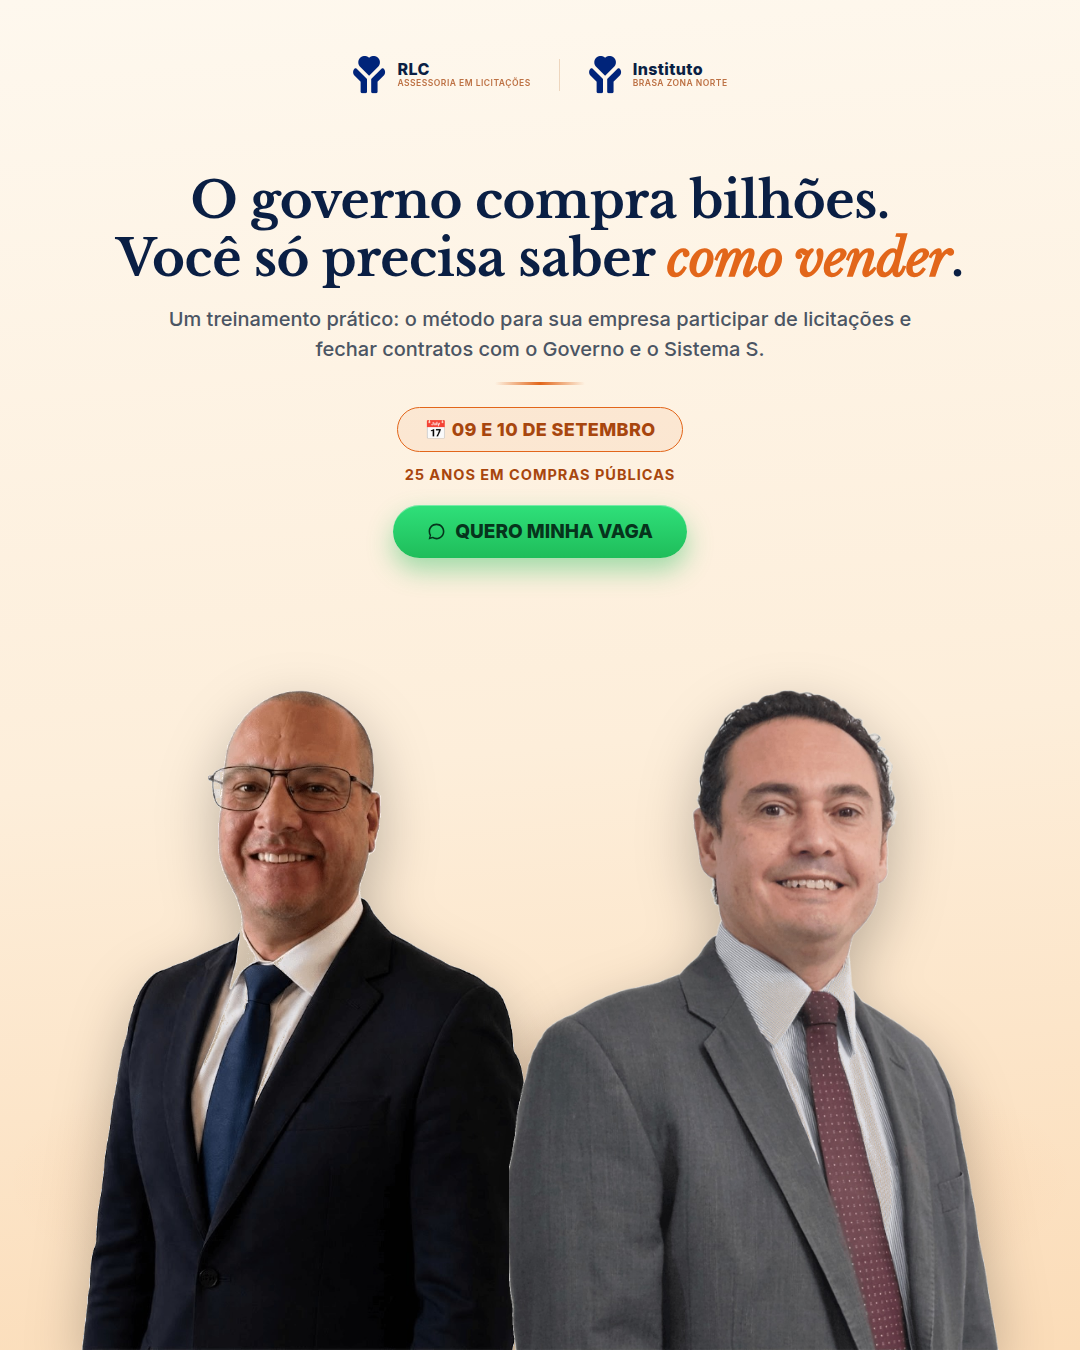
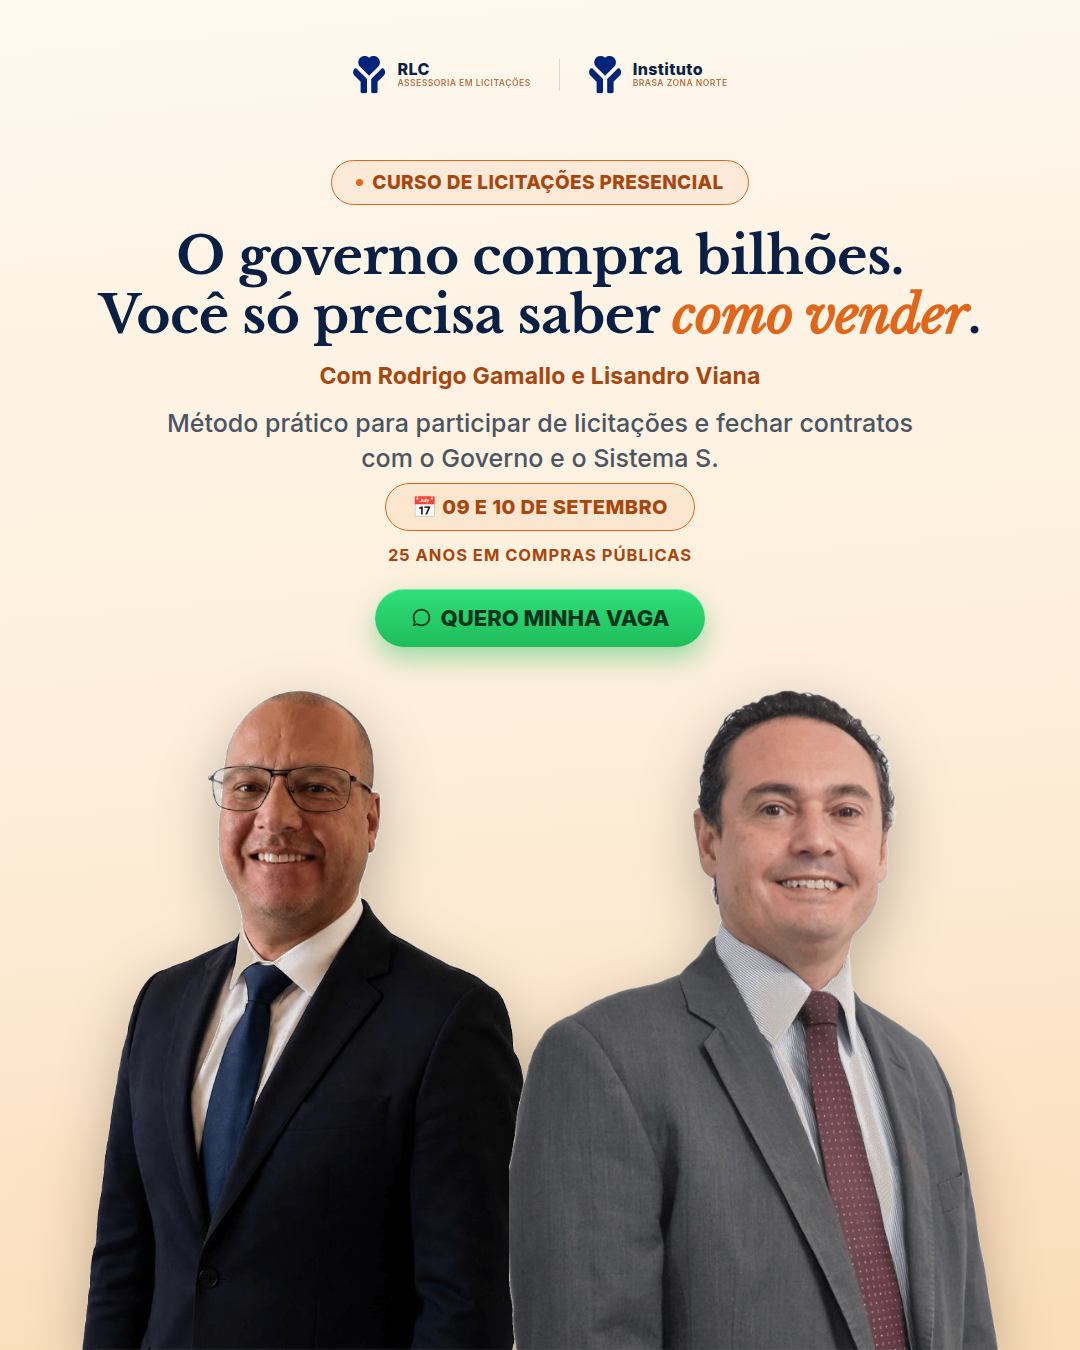
Update course name, WhatsApp number, and elevate feed ad cards
- Renames the course to "Curso de Licitações Presencial" everywhere
  it appears (title, meta tags, hero, sticky bar, event section,
  WhatsApp prefilled messages, legal pages) and regenerates the
  share-preview image to match.
- Updates the WhatsApp number to (51) 99371-3577 across every link
  and displayed number on the site.
- Rebuilds the 4 Instagram feed ad cards: each now carries a
  "CURSO DE LICITAÇÕES PRESENCIAL" badge and the instructors' names
  under the (reused) headline, with larger type throughout. Verified
  legibility by rendering at actual in-feed mobile display size
  (~470px wide) before finalizing.

Changed region(s): [[0.0917, 0.1244, 0.9167, 0.4978], [0.0917, 0.1556, 0.1222, 0.1867]]

diff --git a/index.html b/index.html
@@ -3,16 +3,16 @@
 <head>
 <meta charset="UTF-8" />
 <meta name="viewport" content="width=device-width, initial-scale=1.0" />
-<title>Como Vender para o Governo e Sistema S | Turma Presencial Reduzida — RLC Assessoria</title>
-<meta name="description" content="Imersão presencial de 6 horas para sua empresa entrar no mercado de compras públicas: prefeituras, hospitais e Sistema S. Turma reduzida. 09 e 10 de setembro, Porto Alegre/RS." />
+<title>Curso de Licitações Presencial | Turma Reduzida — RLC Assessoria</title>
+<meta name="description" content="Curso de Licitações Presencial: imersão de 6 horas para sua empresa entrar no mercado de compras públicas: prefeituras, hospitais e Sistema S. Turma reduzida. 09 e 10 de setembro, Porto Alegre/RS." />
 <meta property="og:type" content="website" />
-<meta property="og:title" content="Como Vender para o Governo e Sistema S | Turma Presencial Reduzida" />
+<meta property="og:title" content="Curso de Licitações Presencial | Turma Reduzida" />
 <meta property="og:description" content="Imersão presencial de 6 horas para sua empresa entrar no mercado de compras públicas. Turma reduzida — 09 e 10 de setembro, Porto Alegre/RS." />
 <meta property="og:image" content="https://institutobzn-pixel.github.io/marketing.instituto/assets/og-image.jpg" />
 <meta property="og:url" content="https://institutobzn-pixel.github.io/marketing.instituto/" />
 <meta property="og:locale" content="pt_BR" />
 <meta name="twitter:card" content="summary_large_image" />
-<meta name="twitter:title" content="Como Vender para o Governo e Sistema S" />
+<meta name="twitter:title" content="Curso de Licitações Presencial" />
 <meta name="twitter:description" content="Imersão presencial de 6 horas. Turma reduzida — 09 e 10 de setembro, Porto Alegre/RS." />
 <meta name="twitter:image" content="https://institutobzn-pixel.github.io/marketing.instituto/assets/og-image.jpg" />
 <link rel="icon" type="image/png" href="assets/logo/simbolo-azul-profundo.png" />
@@ -265,8 +265,8 @@
 <!-- ===== CTA FIXA (aparece ao rolar) ===== -->
 <div class="cta-fixa" id="cta-fixa">
   <div class="container">
-    <div class="cta-fixa-texto"><b>Como Vender para o Governo e Sistema S</b><span>09 e 10 de setembro · Turma presencial reduzida</span></div>
-    <a class="cta-principal" href="https://wa.me/5551989866856?text=Quero%20garantir%20minha%20vaga%20no%20curso%20Como%20Vender%20para%20o%20Governo%20e%20Sistema%20S" target="_blank" rel="noopener">RESERVAR VAGA →</a>
+    <div class="cta-fixa-texto"><b>Curso de Licitações Presencial</b><span>09 e 10 de setembro · Turma presencial reduzida</span></div>
+    <a class="cta-principal" href="https://wa.me/5551993713577?text=Quero%20garantir%20minha%20vaga%20no%20Curso%20de%20Licita%C3%A7%C3%B5es%20Presencial" target="_blank" rel="noopener">RESERVAR VAGA →</a>
   </div>
 </div>
 
@@ -275,7 +275,7 @@
   <div class="container">
     <span class="badge"><span class="ponto"></span> Curso Presencial · Turma Reduzida</span>
     <h1>Sua empresa não precisa ser grande para vender para o governo.<br />Precisa saber <em>como entrar</em>.</h1>
-    <p class="curso-nome">Curso Presencial de Licitações com <strong>Rodrigo Gamallo</strong> e <strong>Lisandro Viana</strong></p>
+    <p class="curso-nome">Curso de Licitações Presencial com <strong>Rodrigo Gamallo</strong> e <strong>Lisandro Viana</strong></p>
     <p class="subtitulo">O mercado de compras públicas movimenta bilhões de reais por ano — e está aberto a empresas de todos os portes. Em 6 horas de imersão prática, você aprende a encontrar oportunidades, montar propostas competitivas e participar de licitações com segurança. <strong>Direto ao ponto, sem juridiquês.</strong></p>
     <div class="hero-instrutores">
       <span class="avatares">
@@ -291,10 +291,10 @@
       <span class="info-chip">📍 Zona Norte — Porto Alegre/RS</span>
     </div>
     <div class="cta-linha">
-      <a class="cta-principal" href="https://wa.me/5551989866856?text=Quero%20garantir%20minha%20vaga%20no%20curso%20Como%20Vender%20para%20o%20Governo%20e%20Sistema%20S" target="_blank" rel="noopener">
+      <a class="cta-principal" href="https://wa.me/5551993713577?text=Quero%20garantir%20minha%20vaga%20no%20Curso%20de%20Licita%C3%A7%C3%B5es%20Presencial" target="_blank" rel="noopener">
         RESERVAR MINHA VAGA →
       </a>
-      <a class="cta-secundario" href="https://wa.me/5551989866856" target="_blank" rel="noopener">Falar com a equipe no WhatsApp</a>
+      <a class="cta-secundario" href="https://wa.me/5551993713577" target="_blank" rel="noopener">Falar com a equipe no WhatsApp</a>
     </div>
     <p class="vagas">Turma <b>presencial e reduzida</b> — atendimento próximo a cada participante, sem sala lotada.</p>
     <div class="countdown-wrap">
@@ -487,7 +487,7 @@
   <div class="container">
     <div class="centro">
       <span class="section-tag">Informações do evento</span>
-      <h2 class="titulo-secao">Curso Como Vender para o Governo e Sistema S</h2>
+      <h2 class="titulo-secao">Curso de Licitações Presencial</h2>
     </div>
     <div class="evento-card reveal">
       <div class="evento-info">
@@ -504,7 +504,7 @@
         <div class="por">por apenas</div>
         <div class="preco"><small>R$</small> 397</div>
         <div class="pagamento">por pessoa · presencial</div>
-        <a class="cta-principal" href="https://wa.me/5551989866856?text=Quero%20garantir%20minha%20vaga%20no%20curso%20Como%20Vender%20para%20o%20Governo%20e%20Sistema%20S" target="_blank" rel="noopener">RESERVAR MINHA VAGA →</a>
+        <a class="cta-principal" href="https://wa.me/5551993713577?text=Quero%20garantir%20minha%20vaga%20no%20Curso%20de%20Licita%C3%A7%C3%B5es%20Presencial" target="_blank" rel="noopener">RESERVAR MINHA VAGA →</a>
       </div>
     </div>
     <div class="incluso reveal">
@@ -548,7 +548,7 @@
       </div>
       <div class="faq-item">
         <button class="faq-pergunta" type="button">Como faço para garantir minha vaga? <span class="seta">▾</span></button>
-        <div class="faq-resposta"><p>Clique no botão de reserva ou fale conosco no WhatsApp <strong>(51) 98986-6856</strong>. A turma é presencial e reduzida.</p></div>
+        <div class="faq-resposta"><p>Clique no botão de reserva ou fale conosco no WhatsApp <strong>(51) 99371-3577</strong>. A turma é presencial e reduzida.</p></div>
       </div>
     </div>
   </div>
@@ -561,15 +561,15 @@
     <h2>Não deixe essa oportunidade passar</h2>
     <p>Enquanto você pensa, um concorrente pode estar fechando uma licitação que poderia ser sua. Garanta sua vaga na turma agora.</p>
     <div class="contato-meios">
-      <a class="contato-meio whats" href="https://wa.me/5551989866856" target="_blank" rel="noopener">
+      <a class="contato-meio whats" href="https://wa.me/5551993713577" target="_blank" rel="noopener">
         <svg width="18" height="18" viewBox="0 0 24 24" fill="currentColor"><path d="M12 2C6.48 2 2 6.48 2 12c0 1.88.52 3.66 1.42 5.18L2 22l4.95-1.39A9.94 9.94 0 0 0 12 22c5.52 0 10-4.48 10-10S17.52 2 12 2zm0 18c-1.58 0-3.06-.45-4.32-1.22l-.31-.18-2.94.82.83-2.87-.2-.32A7.98 7.98 0 0 1 4 12c0-4.41 3.59-8 8-8s8 3.59 8 8-3.59 8-8 8zm4.36-5.93c-.24-.12-1.42-.7-1.64-.78-.22-.08-.38-.12-.54.12-.16.24-.62.78-.76.94-.14.16-.28.18-.52.06-.24-.12-1.01-.37-1.92-1.19-.71-.63-1.19-1.42-1.33-1.66-.14-.24-.02-.37.1-.49.11-.11.24-.28.36-.42.12-.14.16-.24.24-.4.08-.16.04-.3-.02-.42-.06-.12-.54-1.29-.74-1.77-.19-.47-.39-.4-.54-.41h-.46c-.16 0-.42.06-.64.3-.22.24-.84.82-.84 2s.86 2.32.98 2.48c.12.16 1.7 2.59 4.12 3.63.58.25 1.03.4 1.38.51.58.19 1.11.16 1.53.1.47-.07 1.42-.58 1.62-1.14.2-.56.2-1.04.14-1.14-.06-.1-.22-.16-.46-.28z"/></svg>
-        (51) 98986-6856
+        (51) 99371-3577
       </a>
       <a class="contato-meio" href="mailto:atendimento@rlcassessoria.com.br">✉ atendimento@rlcassessoria.com.br</a>
       <span class="contato-meio">📍 Av. Baltazar de Oliveira Garcia, 430 — Zona Norte, Porto Alegre/RS</span>
     </div>
     <div class="cta-linha" style="justify-content:center">
-      <a class="cta-principal" href="https://wa.me/5551989866856?text=Quero%20garantir%20minha%20vaga%20no%20curso%20Como%20Vender%20para%20o%20Governo%20e%20Sistema%20S" target="_blank" rel="noopener">RESERVAR MINHA VAGA →</a>
+      <a class="cta-principal" href="https://wa.me/5551993713577?text=Quero%20garantir%20minha%20vaga%20no%20Curso%20de%20Licita%C3%A7%C3%B5es%20Presencial" target="_blank" rel="noopener">RESERVAR MINHA VAGA →</a>
     </div>
   </div>
 </section>
@@ -588,7 +588,7 @@
 </footer>
 
 <!-- ===== WHATSAPP FLUTUANTE ===== -->
-<a class="whats-flutuante" href="https://wa.me/5551989866856" target="_blank" rel="noopener" aria-label="Falar no WhatsApp">
+<a class="whats-flutuante" href="https://wa.me/5551993713577" target="_blank" rel="noopener" aria-label="Falar no WhatsApp">
   <svg width="28" height="28" viewBox="0 0 24 24" fill="#fff"><path d="M12 2C6.48 2 2 6.48 2 12c0 1.88.52 3.66 1.42 5.18L2 22l4.95-1.39A9.94 9.94 0 0 0 12 22c5.52 0 10-4.48 10-10S17.52 2 12 2zm0 18c-1.58 0-3.06-.45-4.32-1.22l-.31-.18-2.94.82.83-2.87-.2-.32A7.98 7.98 0 0 1 4 12c0-4.41 3.59-8 8-8s8 3.59 8 8-3.59 8-8 8zm4.36-5.93c-.24-.12-1.42-.7-1.64-.78-.22-.08-.38-.12-.54.12-.16.24-.62.78-.76.94-.14.16-.28.18-.52.06-.24-.12-1.01-.37-1.92-1.19-.71-.63-1.19-1.42-1.33-1.66-.14-.24-.02-.37.1-.49.11-.11.24-.28.36-.42.12-.14.16-.24.24-.4.08-.16.04-.3-.02-.42-.06-.12-.54-1.29-.74-1.77-.19-.47-.39-.4-.54-.41h-.46c-.16 0-.42.06-.64.3-.22.24-.84.82-.84 2s.86 2.32.98 2.48c.12.16 1.7 2.59 4.12 3.63.58.25 1.03.4 1.38.51.58.19 1.11.16 1.53.1.47-.07 1.42-.58 1.62-1.14.2-.56.2-1.04.14-1.14-.06-.1-.22-.16-.46-.28z"/></svg>
 </a>
 

diff --git a/termos.html b/termos.html
@@ -4,7 +4,7 @@
 <meta charset="UTF-8" />
 <meta name="viewport" content="width=device-width, initial-scale=1.0" />
 <title>Termos de Uso | RLC Assessoria e Consultoria em Licitações</title>
-<meta name="description" content="Termos de Uso e condições de inscrição do curso Como Vender para o Governo e Sistema S, da RLC Assessoria e Consultoria em Licitações." />
+<meta name="description" content="Termos de Uso e condições de inscrição do Curso de Licitações Presencial, da RLC Assessoria e Consultoria em Licitações." />
 <link rel="icon" type="image/png" href="assets/logo/simbolo-azul-profundo.png" />
 <link rel="preconnect" href="https://fonts.googleapis.com" />
 <link rel="preconnect" href="https://fonts.gstatic.com" crossorigin />
@@ -23,7 +23,7 @@
 
 <main>
   <div class="container">
-    <p>Estes Termos de Uso regulam o acesso a este site e a inscrição no curso presencial <strong>Como Vender para o Governo e Sistema S</strong>, oferecido pela <strong>RLC Assessoria e Consultoria em Licitações Ltda.</strong>, com realização do Instituto Brasa Zona Norte. Ao se inscrever no curso ou utilizar este site, você concorda com as condições abaixo.</p>
+    <p>Estes Termos de Uso regulam o acesso a este site e a inscrição no <strong>Curso de Licitações Presencial</strong>, oferecido pela <strong>RLC Assessoria e Consultoria em Licitações Ltda.</strong>, com realização do Instituto Brasa Zona Norte. Ao se inscrever no curso ou utilizar este site, você concorda com as condições abaixo.</p>
 
     <h2>1. Sobre o curso</h2>
     <p>O curso é um treinamento presencial de 6 horas (2 encontros de 3 horas), com turma reduzida, cujo conteúdo programático, datas, horário, local e investimento estão descritos na página de vendas. A RLC Assessoria pode, eventualmente, ajustar horários ou carga horária por motivos operacionais, sempre comunicando os inscritos com antecedência razoável.</p>
@@ -59,7 +59,7 @@
     <div class="caixa-contato">
       <p><strong>Dúvidas sobre estes Termos de Uso:</strong></p>
       <p>✉ <a href="mailto:atendimento@rlcassessoria.com.br">atendimento@rlcassessoria.com.br</a></p>
-      <p>📱 <a href="https://wa.me/5551989866856" target="_blank" rel="noopener">(51) 98986-6856</a></p>
+      <p>📱 <a href="https://wa.me/5551993713577" target="_blank" rel="noopener">(51) 99371-3577</a></p>
       <p>📍 Av. Baltazar de Oliveira Garcia, 430 — Zona Norte, Porto Alegre/RS</p>
     </div>
   </div>

diff --git a/privacidade.html b/privacidade.html
@@ -4,7 +4,7 @@
 <meta charset="UTF-8" />
 <meta name="viewport" content="width=device-width, initial-scale=1.0" />
 <title>Política de Privacidade | RLC Assessoria e Consultoria em Licitações</title>
-<meta name="description" content="Política de Privacidade da RLC Assessoria e Consultoria em Licitações, referente ao curso Como Vender para o Governo e Sistema S." />
+<meta name="description" content="Política de Privacidade da RLC Assessoria e Consultoria em Licitações, referente ao Curso de Licitações Presencial." />
 <link rel="icon" type="image/png" href="assets/logo/simbolo-azul-profundo.png" />
 <link rel="preconnect" href="https://fonts.googleapis.com" />
 <link rel="preconnect" href="https://fonts.gstatic.com" crossorigin />
@@ -23,7 +23,7 @@
 
 <main>
   <div class="container">
-    <p>Esta Política de Privacidade explica como a <strong>RLC Assessoria e Consultoria em Licitações Ltda.</strong> ("RLC Assessoria", "nós"), responsável pelo curso <strong>Como Vender para o Governo e Sistema S</strong> — realização Instituto Brasa Zona Norte —, trata os dados pessoais de quem visita este site ou entra em contato conosco, em conformidade com a Lei Geral de Proteção de Dados Pessoais (Lei nº 13.709/2018 — LGPD).</p>
+    <p>Esta Política de Privacidade explica como a <strong>RLC Assessoria e Consultoria em Licitações Ltda.</strong> ("RLC Assessoria", "nós"), responsável pelo curso <strong>Curso de Licitações Presencial</strong> — realização Instituto Brasa Zona Norte —, trata os dados pessoais de quem visita este site ou entra em contato conosco, em conformidade com a Lei Geral de Proteção de Dados Pessoais (Lei nº 13.709/2018 — LGPD).</p>
 
     <h2>1. Quem é o responsável pelos seus dados</h2>
     <p>A RLC Assessoria e Consultoria em Licitações Ltda., com atuação em Porto Alegre/RS, é a controladora dos dados pessoais tratados a partir deste site e dos canais de contato aqui divulgados (WhatsApp e e-mail).</p>
